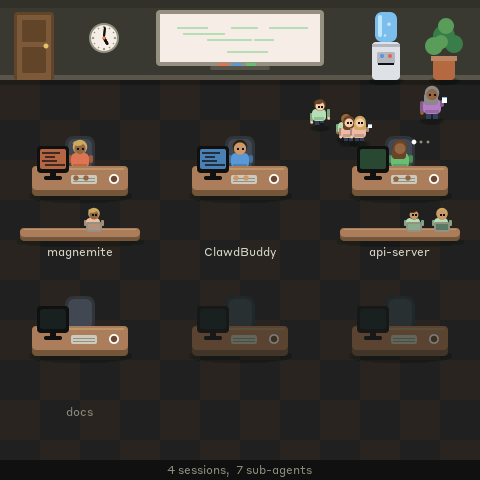
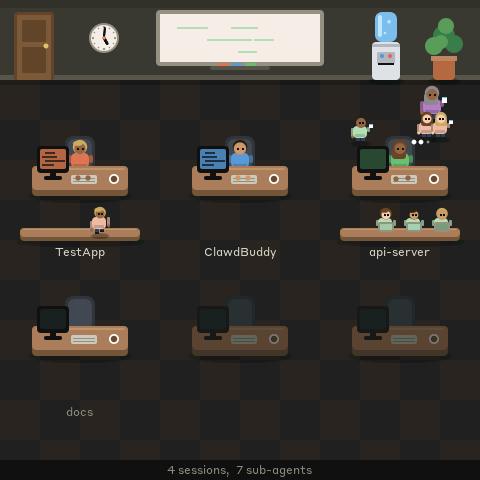
Use neutral project names in the examples, tests and pictures

diff --git a/firmware/test/test_team/test_main.cpp b/firmware/test/test_team/test_main.cpp
@@ -18,11 +18,11 @@ static void run(uint32_t ms) {
 
 static void test_parse(void) {
     TeamDeskIn in[TEAM_DESKS];
-    TEST_ASSERT_EQUAL(2, team_parse("a3w20magnemite|07i00ClawdBuddy", in, TEAM_DESKS));
+    TEST_ASSERT_EQUAL(2, team_parse("a3w20TestApp|07i00ClawdBuddy", in, TEAM_DESKS));
     TEST_ASSERT_EQUAL_UINT8(0xa3, in[0].id);
     TEST_ASSERT_EQUAL_CHAR('w', in[0].state);
     TEST_ASSERT_EQUAL_UINT8(2, in[0].subs);
-    TEST_ASSERT_EQUAL_STRING("magnemite", in[0].name);
+    TEST_ASSERT_EQUAL_STRING("TestApp", in[0].name);
     TEST_ASSERT_EQUAL_STRING("ClawdBuddy", in[1].name);
     TEST_ASSERT_EQUAL(0, team_parse("", in, TEAM_DESKS));
     TEST_ASSERT_EQUAL(0, team_parse(NULL, in, TEAM_DESKS));

diff --git a/desktop/crates/clawdbuddy-core/src/team.rs b/desktop/crates/clawdbuddy-core/src/team.rs
@@ -379,10 +379,10 @@ mod tests {
     #[test]
     fn the_field() {
         let d = vec![
-            Desk { id: 0xa3, state: State::Working, subs: 2, quiet: 1, name: "magnemite".into() },
+            Desk { id: 0xa3, state: State::Working, subs: 2, quiet: 1, name: "TestApp".into() },
             Desk { id: 7, state: State::Break, subs: 0, quiet: 0, name: "ClawdBuddy".into() },
         ];
-        assert_eq!(encode(&d), "a3w21magnemite|07b00ClawdBuddy");
+        assert_eq!(encode(&d), "a3w21TestApp|07b00ClawdBuddy");
         assert_eq!(encode(&[]), "");
         let evs = [ev(10, "UserPromptSubmit s1 - - a-very-long-project-name|x")];
         let name = &desks(&evs, 11)[0].name;

diff --git a/docs/protocol.md b/docs/protocol.md
@@ -57,7 +57,7 @@ A Codex account (a $100 Pro plan: weekly window only, reset credits):
 | `a`, `e`, `es`, `n` | Fast clock: activity 0–3, latest hook event (`p` prompt, `s` stop, `b` back after a gap) and its sequence number, active sessions. |
 | `lt` | The last tool a session ran, as text to show: `my-project: Bash` (the session's working directory name and the tool's name, at most 34 characters; a long project name is cut so the tool shows). From the `PostToolUse` hook, at most one change every 5 s. Shown by the pet view under the status word, over the session count. The first field dropped when a write would exceed its size. |
 | `tv` | 1 = the agent team view is on, 0 = off (`team_view` in the config). Sent with every data payload; the board keeps it until the next one. |
-| `tm` | The team view's desks, sent only while `tv` is 1: one entry per session in desk order (the order the sessions started), joined with `\|`, at most twelve; the firmware seats six to an office. An entry is two hex digits (an id that stays the same for the session's life), a state letter (`w` working, `t` thinking, `q` waiting for you, `d` turn over but sub-agents still running, `i` idle, `b` idle for 2 minutes or more), one digit for the sub-agents running (9 = nine or more), one digit for how many of those have had no event for 2 minutes, then the project name (ASCII, at most 12 characters, 8 when there are more than six sessions). `a3w21magnemite\|07b00ClawdBuddy`. Empty when no session is up. At most one change every 2 s. Dropped after `lt` when a write would exceed its size. |
+| `tm` | The team view's desks, sent only while `tv` is 1: one entry per session in desk order (the order the sessions started), joined with `\|`, at most twelve; the firmware seats six to an office. An entry is two hex digits (an id that stays the same for the session's life), a state letter (`w` working, `t` thinking, `q` waiting for you, `d` turn over but sub-agents still running, `i` idle, `b` idle for 2 minutes or more), one digit for the sub-agents running (9 = nine or more), one digit for how many of those have had no event for 2 minutes, then the project name (ASCII, at most 12 characters, 8 when there are more than six sessions). `a3w21TestApp\|07b00ClawdBuddy`. Empty when no session is up. At most one change every 2 s. Dropped after `lt` when a write would exceed its size. |
 | `rp` | `1` = the usage numbers are a replay, not a fresh poll (heartbeats, and writes between polls for an event, `a`/`n` change, alert or setting); the rate math and reset detection skip them. Fast-clock fields in the same write still count: a new `es` fires. |
 | `lv` | How lively the pet is, `1` (No-nonsense) to `5` (All-nonsense); `3` is the default. Sent with every data payload and right away when the setting changes. The device stores the last value in NVS, so it applies from boot before the app connects; absent = keep the stored value. |
 | `aa` | How long the pet stays alert for an alert, in seconds: `120` (the default, the whole alert), `30`, `10`, or `0` = no animation. Only the animation: the alert's message, tap, `x`, timeout and dismiss notify are unchanged. Sent like `lv` and stored the same way (clamped to 0–120); absent = keep the stored value. |
